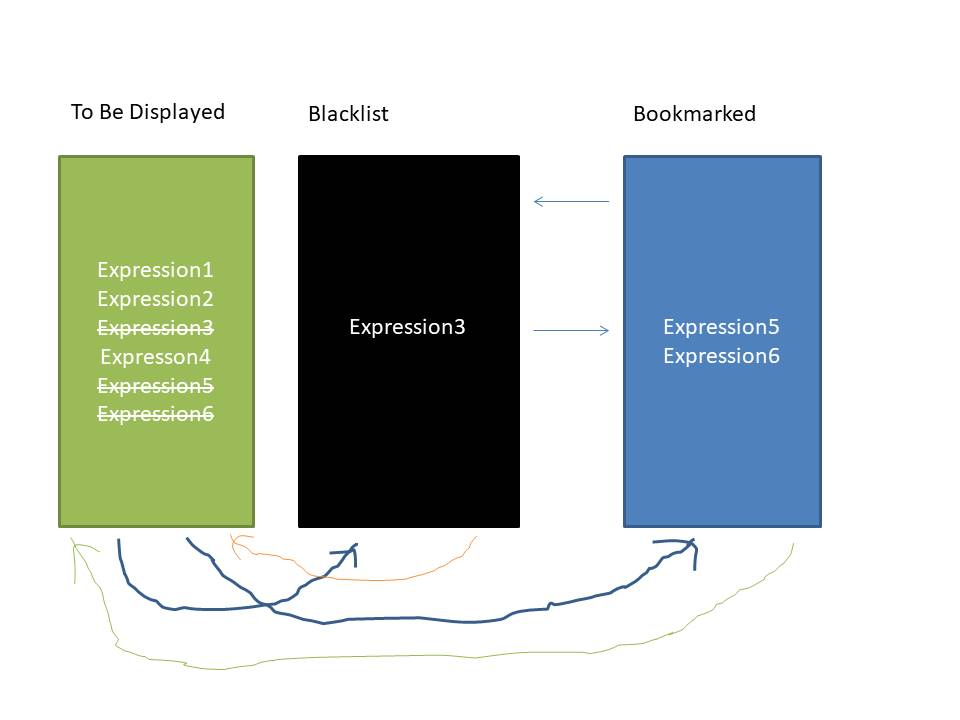
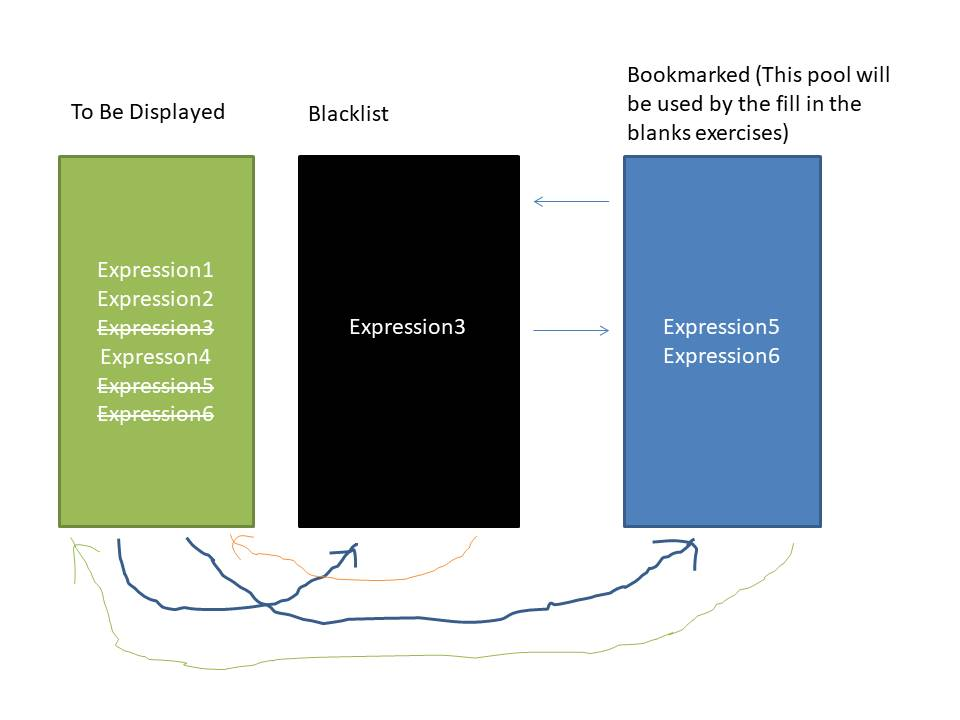
updated exercise2, ERD

Changed region(s): [[0.6562, 0.0917, 0.9375, 0.2139]]

diff --git a/Exercise2.html b/Exercise2.html
@@ -113,10 +113,47 @@
     <!-- End of search bar -->
     <br>
 
-    
 
-<h2>Please suggest some...</h2> <br>
-go to exercise 3 <a href="Exercise3.html">Exercise3</a>
+
+    <div class="row">
+      <div class="col">
+        <h4>Fill in the blanks with appropriate words/expressions:</h4>
+        put together, right, substance, limit
+
+        <br>
+        <br>
+
+        <ol>
+          <li>
+            Could you please ..... the high level design .......
+          </li>
+          <li>
+            Is there any ..... to this allegation?
+          </li>
+          <li>
+            We have to .... the wrongs done by previous government.
+          </li>
+          <li>
+            We need to .... the people in the meeting to 5.
+          </li>
+        </ol>
+
+        <button type="submit">Submit</button>
+      </div>
+    </div>
+
+    <br>
+    <div class="row">
+      <div class="col">
+        <strong>Notes to developers:</strong> We need to dynamically generate such exercises from the pool of expressions bookmarked by users.
+        We will encourage users to bookmark the expressions to get better experience in the revision process. This way we
+        can tailor the exercise based on user profile and bookmarked expressions.
+        <br> We need to have a few default exercises for all users, registered or not.
+
+      </div>
+
+    </div>
+
   </div>
 
 </body>

diff --git a/Exercise1.html b/Exercise1.html
@@ -116,13 +116,29 @@
       <div class="col">
         <b style="margin-bottom:30px;">
           <i class="text-primary">Spin a story </i> using the following expressions based on the pics below: </b>
-        <br>
-        <p>put together, crumble, become interested in, tons/loads of, truly fascinating, suck the life out of, brighten the mood, hit the road/beach,
-          tag along, head over to</p>
-        <br>
-      </div>
 
+        <!-- put together, crumble, become interested in, tons/loads of, truly fascinating, suck the life out of, brighten the mood, hit the road/beach,
+          tag along, head over to -->
+
+      </div>
     </div>
+
+    <div class="row">
+      <div class="col">
+        <a href="putTogetherDesc.html">put together, </a>
+        <a href="crumble.html">crumble, </a>
+        <a href="#">become interested in, </a>
+        <a href="#">tons/loads of, </a>
+        <a href="">truly fascinating/amazing, </a>
+        <a href="#">suck the life out of, </a>
+        <a href="#">brighten the mood, </a>
+        <a href="#">hit the road/beach, </a>
+        <a href="#">tag along, </a>
+        <a href="#">head north/over to</a>
+      </div>
+    </div>
+    <br>
+
     <div class="row">
       <div class="col">
         <div id="myCarousel" class="carousel slide bg-inverse w-50 ml-auto mr-auto" data-ride="carousel">

diff --git a/index.html b/index.html
@@ -116,7 +116,7 @@
     <div class="row text-center">
       <div class="col" style="font-size:large; color:red;">
         <!-- <b> Learn How To Speak English Using The Unique <a class="blink" href="FAQs.html#whatIsExpression">"Expressions Technique"</a> </b> -->
-        <b> Learn To Speak English Faster And Better Using The Unique
+        <b> Learn To Speak English Faster And Better Using Our Unique
           <a class="blink" href="FAQs.html#whatIsExpression">"Expressions Technique"</a>
         </b>
         <br>
